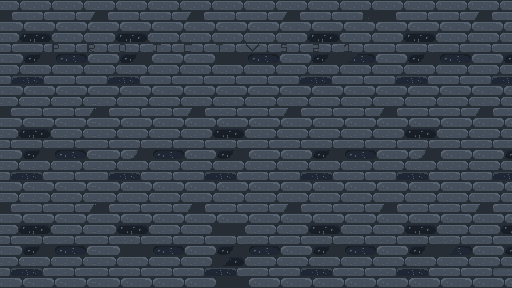
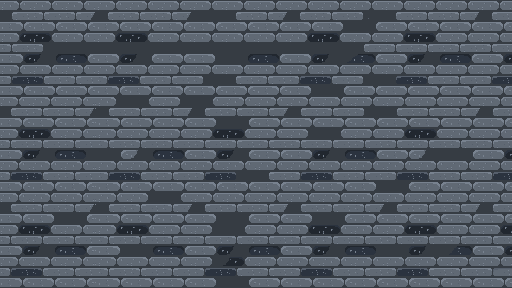
mas parallax

diff --git a/TPV2/src/game/PlayingState/Stage.cpp b/TPV2/src/game/PlayingState/Stage.cpp
@@ -158,14 +158,17 @@ void Stage::Update(SDL_Rect* camera)
 	float cameraWDiff = (float)mngr->GetActualWidth() - (float)camera->w;
 	float cameraHDiff = (float)mngr->GetActualHeight() - (float)camera->h;
 
-	auxDeath.x = (auxDeath.x - camera->x) * backGroundParallax;
-	auxDeath.x *= ((float)mngr->GetActualWidth() / ((float)camera->w + (cameraWDiff * (1.f - backGroundParallax))));
+	float widthMat = (float)mngr->GetActualWidth() / ((float)camera->w + (cameraWDiff * (1.f - backGroundParallax)));
+	float heightMat = (float)mngr->GetActualHeight() / ((float)camera->h + (cameraHDiff * (1.f - backGroundParallax)));
 
-	auxDeath.y = (auxDeath.y - camera->y) * backGroundParallax;
-	auxDeath.y *= ((float)mngr->GetActualHeight() / ((float)camera->h + (cameraHDiff * (1.f - backGroundParallax))));
+	auxDeath.x = -camera->x * backGroundParallax;
+	auxDeath.x *= widthMat;
 
-	auxDeath.w *= ((float)mngr->GetActualWidth() / ((float)camera->w + (cameraWDiff * (1.f - backGroundParallax))));
-	auxDeath.h *= ((float)mngr->GetActualHeight() / ((float)camera->h + (cameraHDiff * (1.f - backGroundParallax))));
+	auxDeath.y = -camera->y * backGroundParallax;
+	auxDeath.y *= heightMat;
+
+	auxDeath.w *= widthMat;
+	auxDeath.h *= heightMat;
 
 	background->render(auxDeath);
 
@@ -173,14 +176,17 @@ void Stage::Update(SDL_Rect* camera)
 	{
 		SDL_Rect auxPlat = aaa.rect;
 
+		widthMat = (float)mngr->GetActualWidth() / ((float)camera->w + (cameraWDiff * (1.f - aaa.parallaxValue)));
+		heightMat = (float)mngr->GetActualHeight() / ((float)camera->h + (cameraHDiff * (1.f - aaa.parallaxValue)));
+
 		auxPlat.x = auxPlat.x - camera->x * aaa.parallaxValue;
-		auxPlat.x *= ((float)mngr->GetActualWidth() / ((float)camera->w + (cameraWDiff * (1.f - aaa.parallaxValue))));
+		auxPlat.x *= widthMat;
 
 		auxPlat.y = auxPlat.y - camera->y * aaa.parallaxValue;
-		auxPlat.y *= ((float)mngr->GetActualHeight() / ((float)camera->h + (cameraHDiff * (1.f - aaa.parallaxValue))));
+		auxPlat.y *= heightMat;
 
-		auxPlat.w *= ((float)mngr->GetActualWidth() / ((float)camera->w + (cameraWDiff * (1.f - aaa.parallaxValue))));
-		auxPlat.h *= ((float)mngr->GetActualHeight() / ((float)camera->h + (cameraHDiff * (1.f - aaa.parallaxValue))));
+		auxPlat.w *= widthMat;
+		auxPlat.h *= heightMat;
 
 		aaa.image->render(auxPlat);
 	}
